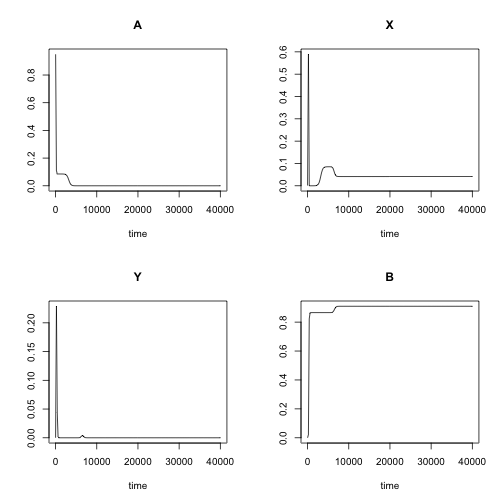
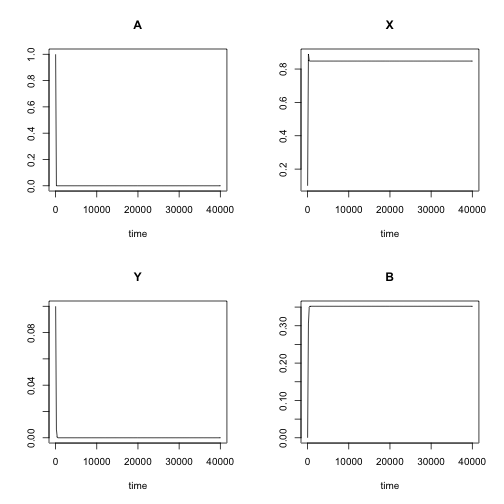
update LV

diff --git a/blog/_posts/2015-12-01-lotka-volterra.md b/blog/_posts/2015-12-01-lotka-volterra.md
@@ -149,26 +149,30 @@ err_res_1 <- function(args){
 }
 {% endhighlight %}
 
-Let's pretend we don't know the parameters and try to infer them from the data. To make it easier on optimization we will supply correct values for the initial concentrations. Note, we will constrain all parameters with zeros as low values as negative concentrations and kinetic constants do not make sense.
+Let's pretend we don't know the parameters and try to infer them from the data. To make it easier on optimization we will supply correct values `yini` for the initial concentrations. Note, we will constrain all parameters with zeros as low values as negative concentrations and kinetic constants do not make sense.
 
 {% highlight r %}
 pars.guess  <- c(k1 = 0.1, 
                  k2 = 0.1, 
                  k3 = 0.1)
+{% endhighlight %}
 
+Checking how different the model looks like with the guessed initial values. Since the guess on kinetic constants was not guided in any way, the model behaviour is strikingly different from the original. In real world scenario, the initial parameter values should be either based on prior knowledge or set in such a way that the model recapitulates at least some of the key features of the original data.
+
+{% highlight r %}
+out.guess <- ode(yini, times, chemLV, pars.guess, method = "lsoda")
+plot(out.guess)
+{% endhighlight %}
+
+![figure](/blog/figs/2015-12-01-lotka-volterra/unnamed-chunk-8-1.png) 
+
+Launching the fitting of the paramters to the data of the original model.
+
+{% highlight r %}
 fit <- modFit(f = err_res_1,
               p = c(yini, pars.guess),
               lower = rep(0,7),
               method = "Marq")
-{% endhighlight %}
-
-
-There are plenty of the warning messages like this, indicating on the forward problem solving troubles.
-{% highlight text %}
-## DLSODA-  Warning..Internal T (=R1) and H (=R2) are
-##       such that in the machine, T + H = T on the next step  
-##      (H = step size). Solver will continue anyway.
-## In above message, R1 = 12903.8, R2 = 8.29675e-13
 {% endhighlight %}
 
 
@@ -207,7 +211,7 @@ out2 <- ode(fit$par[c('A','X','Y','B')],
 plot(out2)
 {% endhighlight %}
 
-![figure](/blog/figs/2015-12-01-lotka-volterra/unnamed-chunk-8-1.png) 
+![figure](/blog/figs/2015-12-01-lotka-volterra/unnamed-chunk-10-1.png) 
 
 ##Settings \#2. Mixed free/fixed parameters.
 Let's consider a little bit easier situation. Say we <u>know</u> the initial concentrations. Typically biomolecule concentrations is somewhat realistically to directly measure with bioanalytical approaches. Thus we will consider only three kinetic constants as free parameters for optimization. Note, the initial values remain exactly the same between those two optimizations.
@@ -256,6 +260,5 @@ the initial values for the first and second optimizations are the same.
 The algortithm and settings are the same. All we did is fixed the 
 initial concentrations and thus did not allow to slip out of the 
 path to the actual minimum. Perhaps it is possible to set-up an optimization 
-routine that we do correct fit even in case of seven free parameters. 
-But it wouldn't be trivial.
+routine that does correct fit even in the case of seven free parameters, but it won't be trivial.
 
